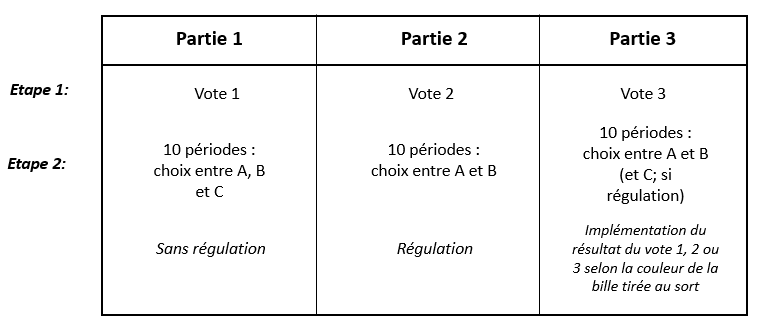
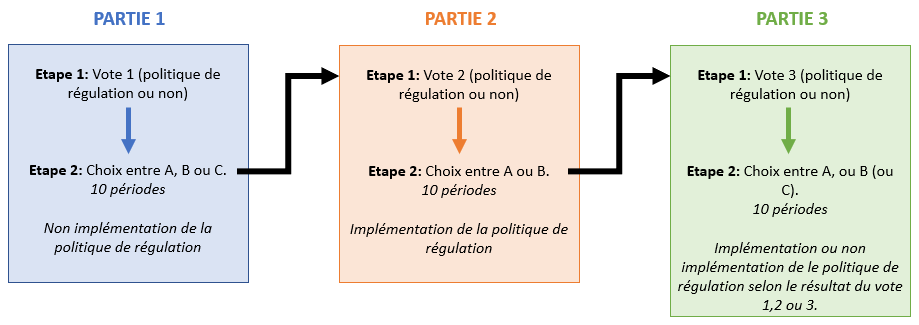
20/09/22
Change in instructions

diff --git a/vehicle_choice_game_tax_vote_all/Instructions1.html b/vehicle_choice_game_tax_vote_all/Instructions1.html
@@ -8,19 +8,24 @@
     <br>
     Nous vous remercions de participer à cette expérience !<br>
     <br>
-    Vous participez à une expérience dans laquelle vous pouvez gagner de l’argent selon vos choix.
+    Vous participez à une expérience dans laquelle vous pouvez gagner de l’argent selon vos choix et ceux des autres joueurs.
     Vos gains dépendront aussi de différents événements. Chaque participant prend ses décisions individuellement devant son ordinateur.
     Nous vous demandons de bien vouloir lire intégralement les instructions. Ces instructions vous permettront de comprendre l’expérience.<br>
     <br>
     Les réponses à ces questions sont importantes pour nous et seront entièrement anonymes et confidentielles.<br>
     <br>
-    Vos gains vont dépendre de vos décisions ainsi que des décisions des autres participants. A la fin de l'expérience, une de vos décisions sera tirée au sort et déterminera votre rémunération.
-    Pour vous remercier de votre participation vous recevrez 7 euros, en plus des gains accumulés dans l’expérience.
-    Le paiement total de vos gains en euros se fera en espèces et de façon privée à la fin de l’expérience.
-    Les gains sont exprimés en ECUs. Le taux de conversion des ECUs en euros est de 10 ECUs = 1 euro.<br>
+    Pendant cette expérience vous allez devoir prendre plusieurs décisions. Vos gains vont dépendre de vos décisions ainsi que des décisions des autres participants.
     <br>
-    Si vous avez une question, levez la main et un expérimentateur viendra vous répondre en privé. Durant l'expérience tout type de communication entre les participants est interdit.
-    Veuillez lire attentivement les instructions.
+    A la fin de l'expérience, une de vos décisions sera tirée au sort et déterminera votre rémunération.
+    Pour vous remercier de votre participation vous recevrez 7 euros, en plus des gains
+    de l’expérience.
+    Le paiement total de vos gains en euros se fera en espèces et de façon privée à la fin de l’expérience.
+    Les gains sont exprimés en ECUs.
+    <br>
+    Le taux de conversion des ECUs en euros est de 10 ECUs = 1 euro <i>susceptible de changer</i>.
+    <br>
+    Vous pouvez poser des questions à tout moment de l'expérience. Pour cela, levez la main et un expérimentateur viendra vous répondre en privé.
+    Durant l'expérience toute communication entre les participants est interdit. Veuillez lire attentivement les instructions.
 
 
 </p>

diff --git a/vehicle_choice_game_tax_vote_all/Instructions2.html b/vehicle_choice_game_tax_vote_all/Instructions2.html
@@ -4,15 +4,18 @@
 
 {{ block content }}
 <p>
+    L'ordinateur va constituer aléatoirement des groupes de <b>6 participants</b>.
+    La composition des groupes <b>restera inchangée</b> durant toute l’expérience.
+    Vous ne pouvez pas identifier les autres membres de votre groupe et ces derniers ne peuvent pas vous identifier
     <br>
-    Au début de l'expérience l'ordinateur va constituer aléatoirement des groupes de <b>6 participants</b>.
-    La composition des groupes restera inchangée durant toute l’expérience.
-    Vous ne pouvez pas identifier les autres membres de votre groupe et ces derniers ne peuvent pas vous identifier.<br>
-    <br>
-    L’expérience comporte quatre parties, vous devez répondre à toutes les parties. Les trois premières parties comportent chacune deux étapes.
+    L’expérience comporte <b>quatre parties</b>, vous devez répondre à toutes les parties. Les trois premières parties comportent chacune deux étapes
+    durant lesquelles vous devrez prendre des décisions.
     La quatrième partie de l'expérience est un questionnaire.<br>
     <br>
-
+    La composition de l'expérience peut être résumée grâce à l'image suivante :
+    <br>
+    <center><img src="{{ static 'Images/forme.png' }}"/></center>
+    
 
 </p>
 
